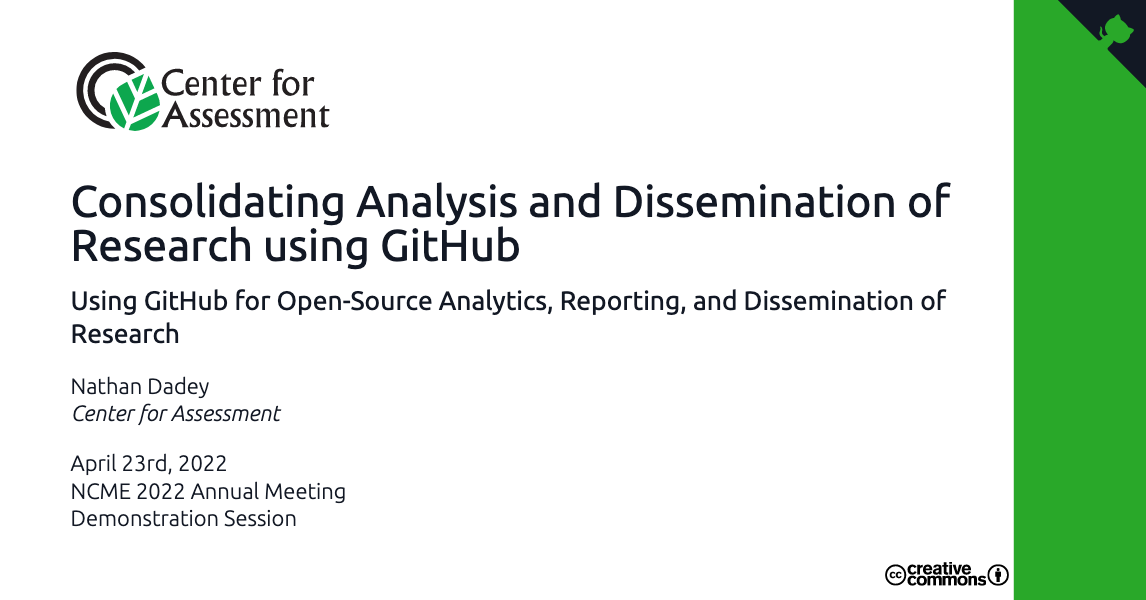
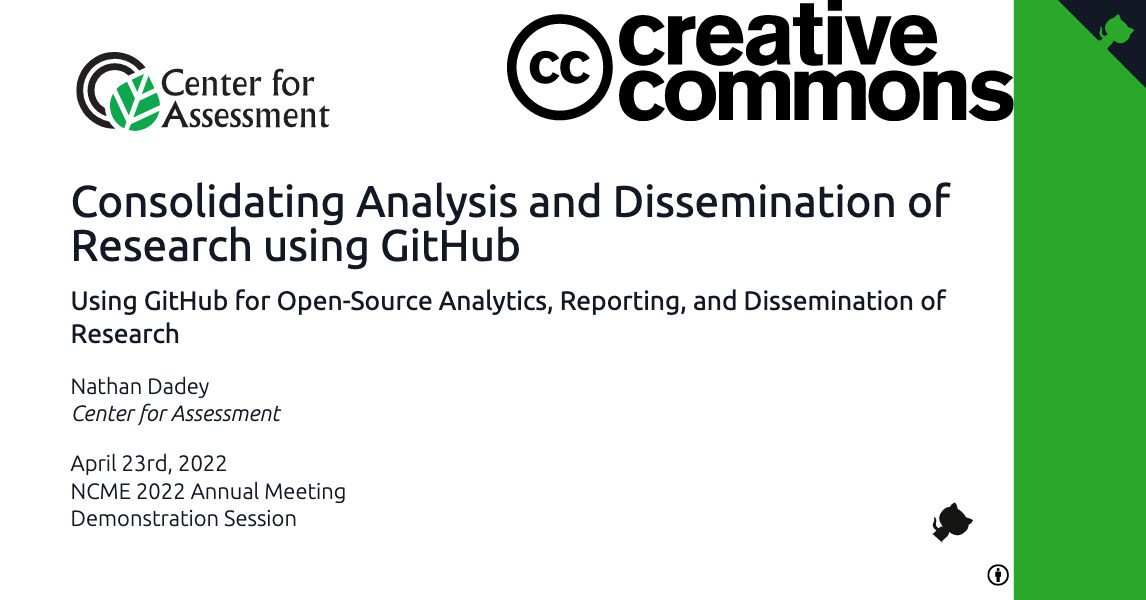
Trying to get GitHub corner to render properly

Changed region(s): [[0.4276, 0.0, 0.8857, 0.21], [0.7635, 0.93, 0.8551, 0.99], [0.7941, 0.84, 0.8551, 0.9]]

diff --git a/docs/presentations/Building_and_Distributing_R_Packages_Using_GitHub.html b/docs/presentations/Building_and_Distributing_R_Packages_Using_GitHub.html
@@ -90,7 +90,6 @@ class: center, middle, inverse, title-slide
 ]
 .institute[
 ### Center for Assessment
-<a href="https://github.com/CenterForAssessment/NCME_2022_Demonstration/blob/main/Presentations/Building_and_Distributing_R_Packages_Using_GitHub.Rmd" class="github-corner" aria-label="View source on Github"> <svg width="80" height="80" viewBox="0 0 250 250" style="position: absolute; top: 0px; right: 0px; border: 0px;" aria-hidden="true"> <path d="M0,0 L115,115 L130,115 L142,142 L250,250 L250,0 Z" fill="#000000"></path> <path class="octo-arm" d="M128.3,109.0 C113.8,99.7 119.0,89.6 119.0,89.6 C122.0,82.7 120.5,78.6 120.5,78.6 C119.2,72.0 123.4,76.3 123.4,76.3 C127.3,80.9 125.5,87.3 125.5,87.3 C122.9,97.6 130.6,101.9 134.4,103.2" fill="#6e5494" style="transform-origin: 130px 106px;"></path> <path class="octo-body" d="M115.0,115.0 C114.9,115.1 118.7,116.5 119.8,115.4 L133.7,101.6 C136.9,99.2 139.9,98.4 142.2,98.6 C133.8,88.0 127.5,74.4 143.8,58.0 C148.5,53.4 154.0,51.2 159.7,51.0 C160.3,49.4 163.2,43.6 171.4,40.1 C171.4,40.1 176.1,42.5 178.8,56.2 C183.1,58.6 187.2,61.8 190.9,65.4 C194.5,69.0 197.7,73.2 200.1,77.6 C213.8,80.2 216.3,84.9 216.3,84.9 C212.7,93.1 206.9,96.0 205.4,96.6 C205.1,102.4 203.0,107.8 198.3,112.5 C181.9,128.9 168.3,122.5 157.7,114.1 C157.9,116.9 156.7,120.9 152.7,124.9 L141.0,136.5 C139.8,137.7 141.6,141.9 141.8,141.8 Z" fill="#6e5494"></path> </svg> </a>
 ]
 .date[
 ### April 21st, 2022 (updated: May 17th, 2022)<br />NCME 2022 Annual Meeting
